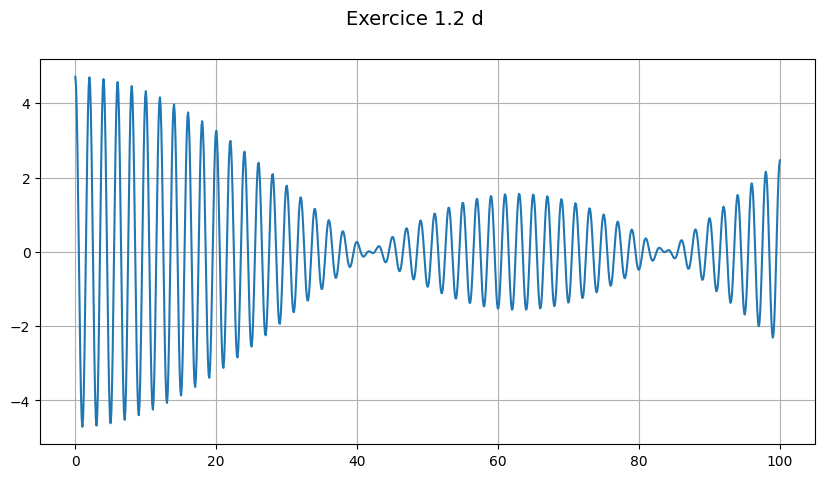
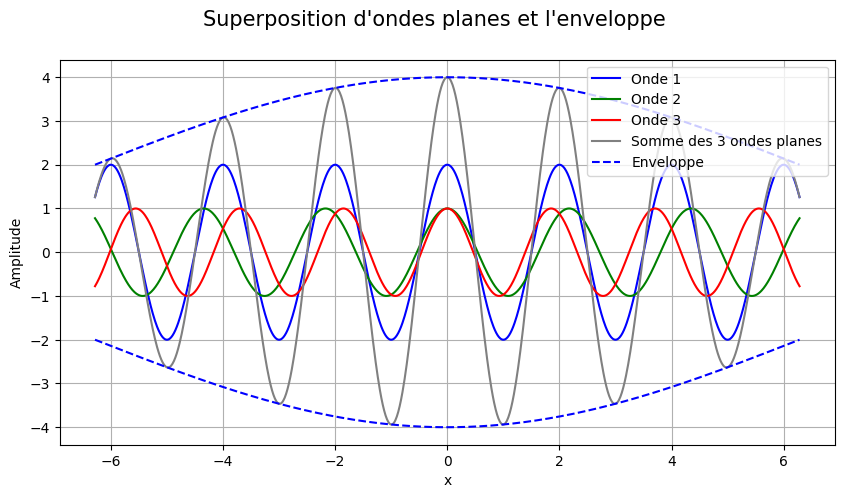
ajout code partie 2

Changed region(s): [[0.0, 0.1172, 1.0, 0.9958], [0.2424, 0.0, 0.7879, 0.0586]]

diff --git a/OndePlane1d4H.py b/OndePlane1d4H.py
@@ -1,5 +1,5 @@
 import numpy
-from numpy import pi, exp, sqrt, real, imag, zeros, linspace
+from numpy import pi, exp, sqrt, real, imag, zeros, linspace, cos
 import matplotlib.pyplot as plt
 
 deux_pi = 2*pi
@@ -12,25 +12,36 @@ def PlaneWave(amp, k, omega, x, t):
         return amp * exp(1j*(k*x - omega*t))
 
 
-x = linspace(0,100,1000)
 t = 0
-deltaK = 0.1
+deltaK = 0.5
 ko = pi
 k = [ko - deltaK/2, ko, ko + deltaK/2]
+x = linspace(-pi/deltaK, pi/deltaK, 1000)
 
 omega = 10
-amp = ko/2
+amp = 2
 nb = 3
-superpostion = 0
+superposition = 0
 
-for i in range(nb):
-    ondePlane = PlaneWave(amp,k[i],omega,x,t)
-    superpostion += ondePlane
+onde1 = PlaneWave(amp, ko, omega, x, t)
+onde2 = PlaneWave(amp/2, ko-deltaK/2, omega, x, t)
+onde3 = PlaneWave(amp/2, ko+deltaK/2, omega, x, t)
+
+superposition = onde1 + onde2 + onde3
+enveloppe = amp*(1+cos((deltaK * x)/2))
 
 fig, ax = plt.subplots(figsize=(10,5))
-fig.suptitle("Exercice 1.2 d", fontsize=14)
-ax.plot(x,numpy.real(superpostion))
+fig.suptitle("Superposition d'ondes planes et l'enveloppe", fontsize=15)
+ax.plot(x, real(onde1), label="Onde 1", color='blue')
+ax.plot(x, real(onde2), label="Onde 2", color='green')
+ax.plot(x, real(onde3), label="Onde 3", color='red')
+ax.plot(x,numpy.real(superposition), label="Somme des 3 ondes planes", color='gray')
+ax.plot(x, enveloppe, label="Enveloppe", color='blue', linestyle='--')
+ax.plot(x, -enveloppe, color='blue', linestyle='--')
+ax.set_xlabel("x")
+ax.set_ylabel("Amplitude")
 ax.grid(True)
+ax.legend()
 plt.savefig("Exercice 1.2 d.png",bbox_inches='tight')
 plt.show()
 

diff --git a/PaquetOndeGauss1d4H.py b/PaquetOndeGauss1d4H.py
@@ -1,0 +1,30 @@
+import numpy
+from numpy import pi, exp, sqrt, real, imag, zeros, linspace, cos, pow
+import matplotlib.pyplot as plt
+
+pi2 = 2* pi
+m = 9.10e-31
+hbar = 1.054e-34
+
+def GaussWP(ko, a, x, t):
+    morceau1 = pow(1/(8*(pi**3)),1/4)
+    morceau2 = sqrt((4*pi*m*a)/(m*(a**2) + 2*1j*hbar*t))
+    morceau3 = exp((m/4)*((((a**2)*ko + 2*1j*x)**2)/(m*(a**2) + 2*1j*hbar*t)) - ((a**2)*(ko**2))/4)
+    return morceau1*morceau2*morceau3
+ko = 5
+a = 1e-10
+t = 0
+x = linspace(-10e-10, 10e-10, 1000)
+onde = GaussWP(ko,a,x,t)
+
+fig, ax = plt.subplots(figsize=(10,5))
+fig.suptitle("Paquet d'ondes gaussien test à t=0 avec a valant la largeur d'un atome", fontsize=15)
+ax.plot(x, real(onde), label="Partie réelle", color='blue')
+ax.plot(x, imag(onde), label="Partie imaginaire", color='red')
+ax.set_xlabel("x")
+ax.set_ylabel("Amplitude")
+ax.legend()
+ax.grid(True)
+plt.savefig("Exercice 2.2 avec t=0 bonne echelle.png",bbox_inches='tight')
+plt.show()
+plt.close()